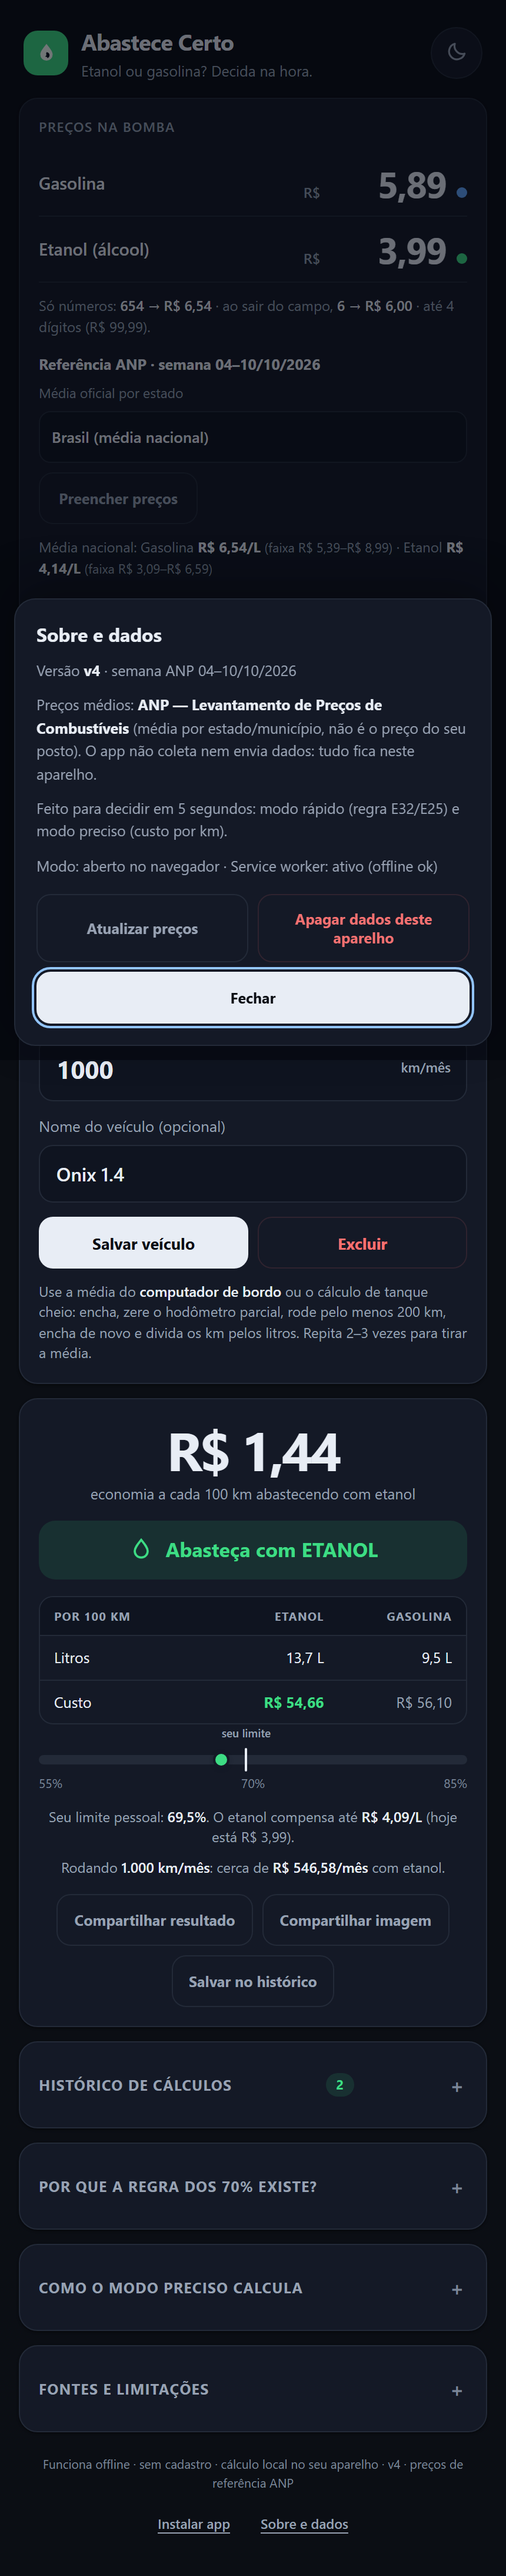
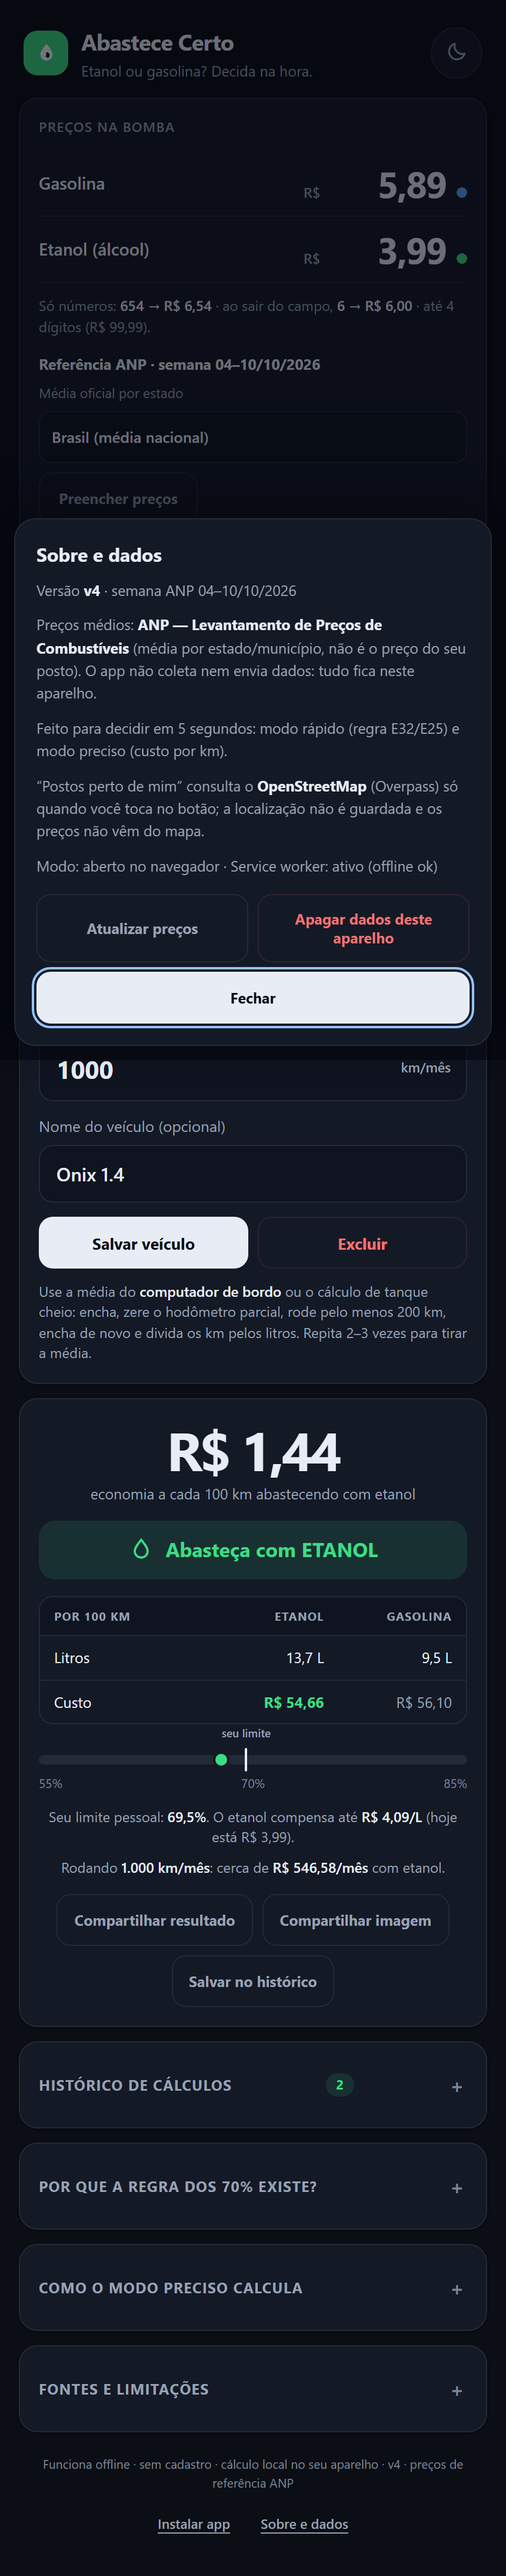
feat(v4.4): postos perto de mim via OpenStreetMap (geolocalizacao sob demanda, fallback Google Maps)

Changed region(s): [[0.0605, 0.1866, 0.907, 0.342]]

diff --git a/index.html b/index.html
@@ -451,6 +451,7 @@
   .station-idx { margin-left: auto; font-weight: 700; font-variant-numeric: tabular-nums; }
   .station-actions { display: flex; gap: 6px; }
   .station-actions .btn { min-height: 34px; padding: 6px 10px; font-size: 11.5px; }
+  .station-actions a.btn { display: inline-flex; align-items: center; text-decoration: none; }
   .stations summary {
     cursor: pointer; list-style: none; font-size: 12.5px; font-weight: 700;
     text-transform: uppercase; letter-spacing: .05em; color: var(--muted);
@@ -559,6 +560,12 @@
           <button type="button" class="btn" id="stationSave">Salvar com os preços atuais</button>
         </div>
         <ul id="stationList" class="station-list"></ul>
+        <div class="veh-actions">
+          <button type="button" class="btn ghost" id="nearbyBtn" hidden>Postos perto de mim</button>
+          <a class="btn ghost" id="nearbyMaps" href="https://www.google.com/maps/search/?api=1&query=posto+de+combust%C3%ADvel" target="_blank" rel="noopener noreferrer" hidden>Abrir no Google Maps</a>
+        </div>
+        <p class="hint" id="nearbyHint"></p>
+        <ul id="nearbyList" class="station-list"></ul>
         <p class="hint" id="stationHint"></p>
       </div>
     </details>
@@ -726,6 +733,7 @@
     <p class="sheet-line">Versão <strong>v4</strong> · <span id="aboutWeek">preços de referência ANP</span></p>
     <p class="sheet-line">Preços médios: <strong>ANP — Levantamento de Preços de Combustíveis</strong> (média por estado/município, não é o preço do seu posto). O app não coleta nem envia dados: tudo fica neste aparelho.</p>
     <p class="sheet-line">Feito para decidir em 5 segundos: modo rápido (regra E32/E25) e modo preciso (custo por km).</p>
+    <p class="sheet-line">“Postos perto de mim” consulta o <strong>OpenStreetMap</strong> (Overpass) só quando você toca no botão; a localização não é guardada e os preços não vêm do mapa.</p>
     <p class="sheet-line" id="aboutStatus">Modo: aberto no navegador · Service worker: verificando…</p>
     <div class="sheet-actions">
       <button type="button" class="btn ghost" id="aboutRefresh">Atualizar preços</button>
@@ -953,6 +961,57 @@
     function gaugePos(pct) {
       if (typeof pct !== "number" || !isFinite(pct)) return 0;
       return clamp(((pct - GAUGE_MIN) / (GAUGE_MAX - GAUGE_MIN)) * 100, 0, 100);
+    }
+
+    // ---------------- v4.4: postos próximos (OpenStreetMap/Overpass) ----------------
+    /** Distância em km entre dois pontos (Haversine). */
+    function haversineKm(lat1, lon1, lat2, lon2) {
+      var rad = Math.PI / 180;
+      var dLat = (lat2 - lat1) * rad;
+      var dLon = (lon2 - lon1) * rad;
+      var a = Math.sin(dLat / 2) * Math.sin(dLat / 2) +
+        Math.cos(lat1 * rad) * Math.cos(lat2 * rad) * Math.sin(dLon / 2) * Math.sin(dLon / 2);
+      return 2 * 6371 * Math.asin(Math.min(1, Math.sqrt(a)));
+    }
+
+    /**
+     * Normaliza a resposta do Overpass (`elements`) em postos ordenados por distância.
+     * Aceita node (lat/lon) e ways/relations (center.lat/lon); descarta duplicados
+     * no mesmo ponto e nomes longos. Devolve no máximo `limite` itens.
+     */
+    function parseOverpassStations(json, lat, lon, limite) {
+      if (!json || !Array.isArray(json.elements)) return [];
+      if (!isFinite(lat) || !isFinite(lon)) return [];
+      var max = isFinite(limite) ? Math.max(1, Math.floor(limite)) : 12;
+      var vistos = {};
+      var saida = [];
+      for (var i = 0; i < json.elements.length; i++) {
+        var el = json.elements[i];
+        if (!el) continue;
+        var pos = null;
+        if (typeof el.lat === "number" && typeof el.lon === "number") {
+          pos = { lat: el.lat, lon: el.lon };
+        } else if (el.center && typeof el.center.lat === "number" && typeof el.center.lon === "number") {
+          pos = { lat: el.center.lat, lon: el.center.lon };
+        }
+        if (!pos || pos.lat < -90 || pos.lat > 90 || pos.lon < -180 || pos.lon > 180) continue;
+        var tags = el.tags || {};
+        var nome = String(tags.name || tags.brand || tags.operator || "").replace(/\s+/g, " ").trim();
+        if (nome.length > 60) nome = nome.slice(0, 60);
+        var chave = Math.round(pos.lat * 1e5) + "," + Math.round(pos.lon * 1e5);
+        if (vistos[chave]) continue;
+        vistos[chave] = true;
+        saida.push({
+          name: nome || "Posto sem nome",
+          brand: typeof tags.brand === "string" ? tags.brand.slice(0, 40) : "",
+          lat: pos.lat,
+          lon: pos.lon,
+          distanceKm: haversineKm(lat, lon, pos.lat, pos.lon)
+        });
+        if (saida.length >= max * 4) break;
+      }
+      saida.sort(function (a, b) { return a.distanceKm - b.distanceKm; });
+      return saida.slice(0, max);
     }
 
     function gaugeOutside(pct) {
@@ -1200,6 +1259,8 @@
       preciseResult: preciseResult,
       gaugePos: gaugePos,
       gaugeOutside: gaugeOutside,
+      haversineKm: haversineKm,
+      parseOverpassStations: parseOverpassStations,
       verdictLabel: verdictLabel,
       verdictShort: verdictShort,
       gapText: gapText,
@@ -1241,7 +1302,9 @@
     aboutWeek: $("aboutWeek"), aboutRefresh: $("aboutRefresh"),
     aboutClear: $("aboutClear"), aboutClose: $("aboutClose"), aboutStatus: $("aboutStatus"),
     stationName: $("stationName"), stationSave: $("stationSave"),
-    stationList: $("stationList"), stationCount: $("stationCount"), stationHint: $("stationHint")
+    stationList: $("stationList"), stationCount: $("stationCount"), stationHint: $("stationHint"),
+    nearbyBtn: $("nearbyBtn"), nearbyList: $("nearbyList"), nearbyHint: $("nearbyHint"),
+    nearbyMaps: $("nearbyMaps")
   };
 
   // ---------------------------------------------------------------- máscara de preço
@@ -2333,6 +2396,140 @@
     renderStations();
     toast("Posto removido");
   });
+
+  // ---------------------------------------------------------------- postos próximos (v4.4)
+  var nearbyBusy = false;
+
+  // Instâncias públicas do Overpass — tenta na ordem até uma responder.
+  var OVERPASS_URLS = [
+    "https://overpass.private.coffee/api/interpreter",
+    "https://overpass-api.de/api/interpreter",
+    "https://overpass.kumi.systems/api/interpreter"
+  ];
+
+  function fetchOverpass(consulta) {
+    function tentar(indice) {
+      if (indice >= OVERPASS_URLS.length) {
+        return Promise.reject(new Error("nenhuma instância do Overpass respondeu"));
+      }
+      var ctrl = typeof AbortController === "function" ? new AbortController() : null;
+      var timer = ctrl ? setTimeout(function () { ctrl.abort(); }, 8000) : null;
+      return fetch(OVERPASS_URLS[indice] + "?data=" + encodeURIComponent(consulta), {
+        cache: "no-store",
+        signal: ctrl ? ctrl.signal : undefined
+      })
+        .then(function (r) {
+          if (timer) clearTimeout(timer);
+          if (!r.ok) throw new Error("HTTP " + r.status);
+          return r.json();
+        })
+        .catch(function () {
+          if (timer) clearTimeout(timer);
+          return tentar(indice + 1);
+        });
+    }
+    return tentar(0);
+  }
+
+  function renderNearby(lista) {
+    if (!ui.nearbyList) return;
+    ui.nearbyList.innerHTML = lista.map(function (s) {
+      var dist = s.distanceKm < 1
+        ? Math.round(s.distanceKm * 1000) + " m"
+        : AC.fmtNum(s.distanceKm, 1) + " km";
+      var maps = "https://www.google.com/maps/search/?api=1&query=" + encodeURIComponent(s.lat + "," + s.lon);
+      return '<li class="station-item nearby-item">'
+        + '<span class="station-name">' + escapeHtml(s.name) + "</span>"
+        + '<span class="station-prices">' + dist + (s.brand ? " · " + escapeHtml(s.brand) : "") + "</span>"
+        + '<span class="station-actions">'
+        + '<a class="btn ghost" href="' + maps + '" target="_blank" rel="noopener noreferrer">Mapa</a>'
+        + '<button type="button" class="btn ghost" data-nearby="' + escapeHtml(s.name) + '">Usar nome</button>'
+        + "</span>"
+        + "</li>";
+    }).join("");
+  }
+
+  function findNearby() {
+    if (nearbyBusy || !ui.nearbyBtn) return;
+    if (location.protocol === "file:") {
+      toast("Postos próximos precisam do app instalado ou aberto por http(s)");
+      return;
+    }
+    if (navigator.onLine === false) {
+      toast("Postos próximos precisam de internet");
+      return;
+    }
+    nearbyBusy = true;
+    ui.nearbyBtn.disabled = true;
+    ui.nearbyHint.textContent = "Localizando você…";
+    ui.nearbyBtn.textContent = "Buscando…";
+
+    function encerrar() {
+      nearbyBusy = false;
+      if (ui.nearbyBtn) {
+        ui.nearbyBtn.disabled = false;
+        ui.nearbyBtn.textContent = "Postos perto de mim";
+      }
+    }
+
+    function abrirMapa(lat, lon) {
+      if (!ui.nearbyMaps) return;
+      ui.nearbyMaps.href = "https://www.google.com/maps/search/?api=1&query="
+        + encodeURIComponent("posto de combustível perto de mim")
+        + "&center=" + lat + "," + lon;
+      ui.nearbyMaps.hidden = false;
+    }
+
+    if (ui.nearbyMaps) ui.nearbyMaps.hidden = true;
+
+    navigator.geolocation.getCurrentPosition(function (pos) {
+      var lat = pos.coords.latitude;
+      var lon = pos.coords.longitude;
+      ui.nearbyHint.textContent = "Buscando postos num raio de 2,5 km…";
+      var consulta = '[out:json][timeout:8];node["amenity"="fuel"](around:2000,'
+        + lat.toFixed(5) + "," + lon.toFixed(5) + ");out body 60;";
+      fetchOverpass(consulta)
+        .then(function (json) {
+          var lista = AC.parseOverpassStations(json, lat, lon, 12);
+          if (!lista.length) {
+            ui.nearbyHint.textContent = "Nenhum posto mapeado num raio de 2,5 km.";
+            return;
+          }
+          if (ui.nearbyMaps) ui.nearbyMaps.hidden = true;
+          renderNearby(lista);
+          ui.nearbyHint.textContent = "Postos do OpenStreetMap (sem preço) — toque em “Usar nome” e salve o preço que você viu. Dados © OpenStreetMap (ODbL).";
+        })
+        .catch(function () {
+          abrirMapa(lat, lon);
+          ui.nearbyHint.textContent = "O mapa do OpenStreetMap não respondeu agora. Abra o Google Maps para ver os postos próximos.";
+        })
+        .then(function () {
+          encerrar();
+        });
+    }, function () {
+      encerrar();
+      ui.nearbyHint.textContent = "Sem permissão de localização. Libere o acesso no navegador para ver postos próximos.";
+    }, { timeout: 9000, maximumAge: 300000, enableHighAccuracy: false });
+  }
+
+  if (ui.nearbyBtn) {
+    if (navigator.geolocation) {
+      ui.nearbyBtn.hidden = false;
+      ui.nearbyBtn.addEventListener("click", findNearby);
+    }
+  }
+  if (ui.nearbyList) {
+    ui.nearbyList.addEventListener("click", function (e) {
+      var btn = e.target && e.target.closest ? e.target.closest("[data-nearby]") : null;
+      if (!btn) return;
+      var nome = btn.getAttribute("data-nearby") || "";
+      if (ui.stationName) {
+        ui.stationName.value = nome;
+        try { ui.stationName.focus(); } catch (err) { /* sem foco */ }
+      }
+      toast("Nome copiado — digite os preços e salve");
+    });
+  }
 
   // ---------------------------------------------------------------- histórico (v3)
   var HIST_KEY = "ac.v3.history";

diff --git a/sw.js b/sw.js
@@ -9,7 +9,7 @@
 //
 // Ao publicar uma versão, mude VERSION: o activate apaga os caches antigos.
 
-const VERSION = "v4.3.0";
+const VERSION = "v4.4.0";
 const CACHE = "abastece-certo-" + VERSION;
 
 const PRECACHE = [

diff --git a/REFERENCIA.md b/REFERENCIA.md
@@ -357,3 +357,44 @@ Depois da v4.2 o usuário confirmou que a máscara está OK e pediu, nesta ordem
 - **Teste de ids duplicados** do `test.mjs` varre o HTML inteiro, inclusive strings de template: usar
   `data-id` repetido em `innerHTML` dispara falso positivo — trocamos por `data-sta`.
 - **Tamanho do precos.json** precisa continuar pequeno; por isso só 2 produtos por cidade e arrays curtos.
+
+---
+
+## 17/10/2026 — v4.4 ("Postos perto de mim" via OpenStreetMap)
+
+### Contexto
+A instalação PWA no Android (Chrome) foi validada pelo usuário. Próximo passo escolhido: **postos
+próximos**, aproveitando a API do Overpass/OSM pesquisada em `research/FINDINGS.md` §2.4.
+
+### O que entrou
+- Botão **“Postos perto de mim”** dentro de "Meus postos" (só aparece se o navegador tem geolocalização).
+- A localização é pedida **apenas no toque** (`getCurrentPosition`, timeout 9 s, sem persistência); consulta
+  `node["amenity"="fuel"](around:2000,...)` e monta a lista com **nome, distância (Haversine), marca**.
+- Cada item tem **Mapa** (abre o Google Maps na coordenada) e **Usar nome** (copia o nome para o campo do
+  posto; o usuário digita o preço e salva).
+- **Fallback:** se todas as instâncias do Overpass falharem, aparece **“Abrir no Google Maps”** com a
+  posição atual — o usuário não fica sem resposta.
+- "Sobre e dados" explica que o OSM só é consultado no toque e que a localização não é guardada.
+
+### Descobertas de infraestrutura
+- O Overpass devolve `Access-Control-Allow-Origin: *` para GET (verificado com `Origin` no Node), mas
+  **`overpass-api.de` deu timeout no navegador deste ambiente**; o espelho **`overpass.private.coffee`**
+  respondeu e trouxe 9 postos no teste real (Edge headless + geolocalização simulada).
+- Por isso o app tenta três instâncias em ordem (`private.coffee` → `overpass-api.de` → `kumi`) e tem o
+  fallback do Maps. Este tipo de dependência externa **não pode ser gate rígido** no `visual-check`:
+  erros de rede externa são registrados como aviso, não como falha (o teste valida a UI, não o serviço).
+
+### Verificação (17/10/2026)
+- `tools/test.mjs` → **162/162** (Haversine e `parseOverpassStations`: ordenação, dedupe, inválidos) ·
+  `tools/test-dom.mjs` → **125/125** (botão só com geolocalização) · `tools/test-sw.mjs` → **33/33** ·
+  `tools/test-prices.mjs` → **99/99** · `tools/check.mjs` → **55/55** ·
+  `tools/visual-check.mjs` → **17 etapas**: geolocalização simulada via CDP + Overpass real (9 postos,
+  screenshot `13-postos-proximos.png`).
+- Versão **4.4.0** (app, SW e `package.json`).
+
+### Pitfalls
+- **CORS do Overpass existe, mas a disponibilidade não é garantida**: sempre ter fallback (Maps) e tratar
+  erro sem quebrar o app.
+- **Não persistir localização**; pedir só no toque e deixar claro no "Sobre".
+- **Instância pública**: consulta leve (raio 2 km, só nodes, timeout 8 s) para não abusar do serviço.
+- **Teste visual com rede externa**: separar erros do serviço dos erros do app (filtro por mensagem).

diff --git a/README.md b/README.md
@@ -22,6 +22,7 @@ e guarda um **histórico local** dos seus cálculos com gráfico e exportação 
   <img src="screenshots/02-rapido-resultado.png" alt="Modo rápido no tema escuro: índice 67,7% e veredito de etanol" width="270">
   <img src="screenshots/03-preciso-resultado.png" alt="Modo preciso no tema escuro: economia por 100 km" width="270">
   <img src="screenshots/11-custo-mensal.png" alt="Custo mensal estimado a partir dos km rodados por mês" width="270">
+  <img src="screenshots/13-postos-proximos.png" alt="Postos próximos via OpenStreetMap com distância e atalho para o mapa" width="270">
   <img src="screenshots/09-tema-claro.png" alt="Tema claro (opcional) do app" width="270">
 </p>
 
@@ -31,6 +32,7 @@ e guarda um **histórico local** dos seus cálculos com gráfico e exportação 
 - **Tema escuro como padrão** — botão no cabeçalho alterna escuro → automático (segue o sistema) → claro; cada tema tem cores próprias (não é “inversão”) e a escolha fica salva.
 - **Preços de referência da ANP** — médias semanais oficiais por **Brasil, estado e cidade** (a amostra semanal traz ~394 municípios) em um `precos.json` gerado por script; a UF e a cidade escolhidas são lembradas.
 - **Meus postos** — salve o preço que você viu no posto (nome + gasolina + etanol) e toque em “Usar” para preencher os dois campos com um toque; tudo fica no aparelho (até 15 postos).
+- **Postos perto de mim** — com um toque, usa a sua localização (só na hora, nada é guardado) e lista os postos num raio de 2 km via **OpenStreetMap**; dá para abrir no Google Maps ou copiar o nome para salvar o preço. Sem rede ou sem permissão, cai para o link do Google Maps.
 - **Custo mensal estimado** — informe quantos km você roda por mês no modo preciso e veja o gasto mensal com o combustível vencedor.
 - **Histórico local** — salve cálculos (com o veículo usado), veja a evolução do índice num gráfico próprio (SVG) e exporte em CSV compatível com Excel.
 - **Compartilhar resultado ou imagem** — texto pela folha de compartilhamento (ou cópia) e cartão PNG gerado no próprio aparelho para mandar no WhatsApp.

diff --git a/research/FINDINGS.md b/research/FINDINGS.md
@@ -442,4 +442,22 @@ real / mapa / sincronização*, só com backend ou dados comunitários.
   pesquisadas naquela semana). O seletor mostra apenas as cidades presentes no JSON; senão, vale a média
   do estado.
 
+### 2.6 Atualização v4.4: postos próximos via Overpass (implementado)
+
+- **API escolhida:** Overpass API (OpenStreetMap), consulta `node["amenity"="fuel"](around:2000,LAT,LON)`.
+  Verificado em 17/10/2026 por `fetch` do Node com cabeçalho `Origin`: resposta HTTP 200 e
+  `Access-Control-Allow-Origin: *` — **CORS liberado** (GET; não precisa de preflight).
+- **Instâncias testadas:** `overpass-api.de` (CORS `*`, mas deu timeout no navegador deste ambiente),
+  `overpass.private.coffee` (respondeu e foi a que funcionou no teste real), `overpass.kumi.systems` e
+  `overpass.openstreetmap.fr` (bloqueadas por CORS neste ambiente), `maps.mail.ru` (timeout). O app tenta
+  em ordem e, se todas falharem, mostra link do Google Maps.
+- **Dados retornados:** `tags.name`/`brand`, coordenadas; o app calcula distância (Haversine), ordena,
+  limita a 12 postos e não guarda a localização. **Não há preço no OSM** — o usuário salva o preço que viu
+  no "Meus postos".
+- **Licença/atribuição:** OpenStreetMap é ODbL; o app mostra "Dados © OpenStreetMap (ODbL)" e linka o
+  mapa. Uso de instância pública exige moderação (uma consulta por toque, raio pequeno, 8 s de timeout).
+- **Limite:** postos próximos é a primeira parte do app que **depende de rede**; o núcleo (cálculo,
+  histórico, veículos, preços ANP embutidos) continua 100% offline.
+
+
 

diff --git a/DESIGN.md b/DESIGN.md
@@ -115,6 +115,10 @@ A v1–v3 passaram por "cara de IA" e por direções que não agradaram (papel/r
   G/E, índice e data, botões Usar/Excluir. Guarda no máximo 15 postos, só no aparelho.
 - **Status de instalação:** linha no "Sobre e dados" com modo (instalado/navegador) e service worker
   (ativo/inativo) — serve para o teste de instalação no celular.
+- **Postos perto de mim:** botão dentro de "Meus postos" (só aparece com geolocalização); pede a posição
+  **apenas no toque**, consulta o OpenStreetMap/Overpass e lista nome, distância e marca com atalhos
+  "Mapa" (Google Maps) e "Usar nome". Em falha de rede/serviço, mostra o link do Google Maps como
+  fallback. Atribuição © OpenStreetMap (ODbL) visível e localização nunca persistida.
 - **Veredito:** faixa com tint da cor semântica, ícone e frase completa ("Abasteça com etanol").
 - **Gauge:** trilha fina com marca de limite e ponto do índice; sem gradiente arco-íris.
 - **Histórico:** gráfico de linha fino, lista com data e valores tabulares; nunca mais de 50 itens.
